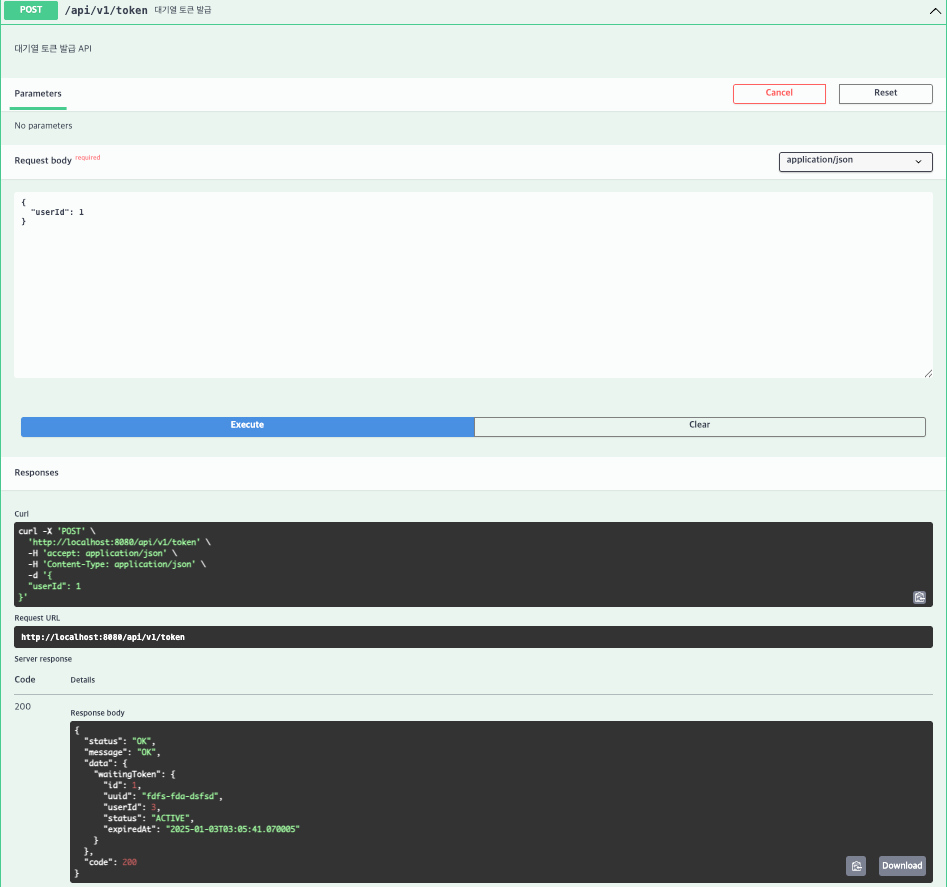
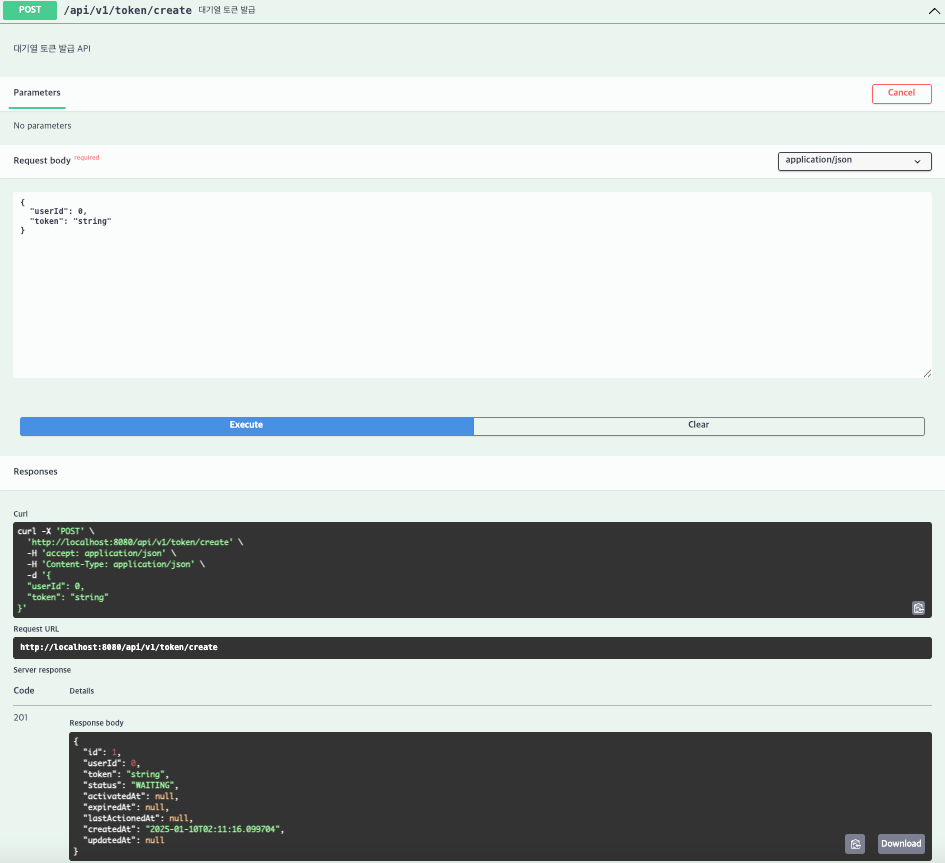
chore : swagger 관련 파일 추가

diff --git a/src/main/java/com/server/concert_reservation/api/concert/presentation/ConcertController.java b/src/main/java/com/server/concert_reservation/api/concert/presentation/ConcertController.java
@@ -1,0 +1,60 @@
+package com.server.concert_reservation.api.concert.presentation;
+
+import com.server.concert_reservation.api.concert.application.GetConcertUseCase;
+import com.server.concert_reservation.api.concert.application.ReservationUseCase;
+import com.server.concert_reservation.api.concert.domain.dto.command.ReservationCommand;
+import com.server.concert_reservation.api.concert.presentation.dto.ConcertHttp;
+import com.server.concert_reservation.common.time.TimeManager;
+import io.swagger.v3.oas.annotations.Operation;
+import io.swagger.v3.oas.annotations.Parameter;
+import io.swagger.v3.oas.annotations.media.Content;
+import io.swagger.v3.oas.annotations.responses.ApiResponse;
+import io.swagger.v3.oas.annotations.responses.ApiResponses;
+import io.swagger.v3.oas.annotations.tags.Tag;
+import lombok.RequiredArgsConstructor;
+import org.springframework.http.ResponseEntity;
+import org.springframework.web.bind.annotation.*;
+
+import static org.springframework.http.HttpStatus.CREATED;
+
+@RestController
+@Tag(name = "Concert", description = "Response Concert API")
+@RequiredArgsConstructor
+@RequestMapping("/api/v1")
+public class ConcertController {
+
+    private final GetConcertUseCase getConcertUseCase;
+    private final ReservationUseCase reservationUseCase;
+    private final TimeManager timeManager;
+
+    @GetMapping("/{concertId}/available-schedules")
+    @Operation(summary = "예약 가능 콘서트 날짜 조회", description = "예약 가능한 콘서트 날짜 조회 API")
+    @ApiResponses(value = {
+            @ApiResponse(responseCode = "200", description = "예약 가능 콘서트 날짜 조회 성공.", content = @Content(mediaType = "application/json")),
+    })
+    @Parameter(name = "concertId", description = "콘서트 Id")
+    public ResponseEntity<ConcertHttp.ConcertScheduleResponse> getAvailableSchedules(@PathVariable Long concertId, @RequestHeader("X-Waiting-Token") String token) {
+        return ResponseEntity.ok(ConcertHttp.ConcertScheduleResponse.of(getConcertUseCase.getAvailableConcertSchedules(concertId, timeManager.now())));
+    }
+
+    @GetMapping("/concert-schedules/{concertScheduleId}/available-seats")
+    @Operation(summary = "예약 가능 좌석 조회", description = "예약 가능한 좌석 조회 API")
+    @ApiResponses(value = {
+            @ApiResponse(responseCode = "200", description = "예약 가능 좌석 성공.", content = @Content(mediaType = "application/json")),
+    })
+    @Parameter(name = "concertScheduleId", description = "콘서트 스케쥴 Id")
+    public ResponseEntity<ConcertHttp.ConcertSeatsResponse> getAvailableSeats(@PathVariable Long concertScheduleId, @RequestHeader("X-Waiting-Token") String token) {
+        return ResponseEntity.ok(ConcertHttp.ConcertSeatsResponse.of(getConcertUseCase.getAvailableConcertSeats(concertScheduleId)));
+    }
+
+    @PostMapping("/concert-seats/reservation")
+    @Operation(summary = "좌석 예약", description = "좌석 예약 요청 API")
+    @ApiResponses(value = {
+            @ApiResponse(responseCode = "201", description = "좌석 예약 성공.", content = @Content(mediaType = "application/json")),
+    })
+    public ResponseEntity<ConcertHttp.ReservationResponse> reservationSeats(@RequestBody ConcertHttp.ConcertReservationRequest request, @RequestHeader("X-Waiting-Token") String token) {
+        return ResponseEntity
+                .status(CREATED)
+                .body(ConcertHttp.ReservationResponse.of(reservationUseCase.temporaryReserveConcert(ReservationCommand.of(request))));
+    }
+}

diff --git a/src/main/java/com/server/concert_reservation/api/token/presentation/TokenController.java b/src/main/java/com/server/concert_reservation/api/token/presentation/TokenController.java
@@ -1,0 +1,48 @@
+package com.server.concert_reservation.api.token.presentation;
+
+import com.server.concert_reservation.api.token.application.TokenUseCase;
+import com.server.concert_reservation.api.token.domain.dto.command.TokenCommand;
+import com.server.concert_reservation.api.token.presentation.dto.TokenHttp;
+import io.swagger.v3.oas.annotations.Operation;
+import io.swagger.v3.oas.annotations.media.Content;
+import io.swagger.v3.oas.annotations.responses.ApiResponse;
+import io.swagger.v3.oas.annotations.responses.ApiResponses;
+import io.swagger.v3.oas.annotations.tags.Tag;
+import lombok.RequiredArgsConstructor;
+import org.springframework.http.ResponseEntity;
+import org.springframework.web.bind.annotation.*;
+
+
+import static org.springframework.http.HttpStatus.CREATED;
+
+@RestController
+@Tag(name = "Token", description = "Response Token API")
+@RequiredArgsConstructor
+@RequestMapping("/api/v1")
+public class TokenController {
+
+    private final TokenUseCase tokenUseCase;
+
+    @PostMapping("/token/create")
+    @Operation(summary = "대기열 토큰 발급", description = "대기열 토큰 발급 API")
+    @ApiResponses(value = {
+            @ApiResponse(responseCode = "201", description = "대기열 토큰 발급 성공.", content = @Content(mediaType = "application/json")),
+    })
+    public ResponseEntity<TokenHttp.TokenResponse> createToken(@RequestBody TokenHttp.TokenRequest request) {
+        return ResponseEntity
+                .status(CREATED)
+                .body(TokenHttp.TokenResponse.of(tokenUseCase.createToken(TokenCommand.of(request))));
+    }
+
+    @GetMapping("/token")
+    @Operation(summary = "대기열 토큰 상태 조회", description = "대기열 토큰 상태 조회 API")
+    @ApiResponses(value = {
+            @ApiResponse(responseCode = "200", description = "대기열 토큰 상태 조회 성공.", content = @Content(mediaType = "application/json")),
+    })
+    public ResponseEntity<TokenHttp.TokenResponse> getTokenStatus(
+            @RequestHeader("X-Waiting-Token") String token,
+            @RequestHeader("USER-ID") Long userId
+            ) {
+        return ResponseEntity.ok(TokenHttp.TokenResponse.of(tokenUseCase.getWaitingToken(token, userId)));
+    }
+}

diff --git a/src/main/java/com/server/concert_reservation/api/user/presentation/UserController.java b/src/main/java/com/server/concert_reservation/api/user/presentation/UserController.java
@@ -1,0 +1,47 @@
+package com.server.concert_reservation.api.user.presentation;
+
+import com.server.concert_reservation.api.user.domain.dto.command.UserCommand;
+import com.server.concert_reservation.api.user.domain.service.UserCommandService;
+import com.server.concert_reservation.api.user.domain.service.UserQueryService;
+import com.server.concert_reservation.api.user.presentation.dto.UserHttp;
+import io.swagger.v3.oas.annotations.Operation;
+import io.swagger.v3.oas.annotations.Parameter;
+import io.swagger.v3.oas.annotations.media.Content;
+import io.swagger.v3.oas.annotations.responses.ApiResponse;
+import io.swagger.v3.oas.annotations.responses.ApiResponses;
+import io.swagger.v3.oas.annotations.tags.Tag;
+import lombok.RequiredArgsConstructor;
+import org.springframework.http.ResponseEntity;
+import org.springframework.web.bind.annotation.*;
+
+@RestController
+@Tag(name = "User", description = "Response User API")
+@RequiredArgsConstructor
+@RequestMapping("/api/v1")
+public class UserController {
+
+    private final UserQueryService userQueryService;
+    private final UserCommandService userCommandService;
+
+    @GetMapping("/users/{userId}/wallet")
+    @Operation(summary = "잔액 조회", description = "잔액 조회 API")
+    @ApiResponses(value = {
+            @ApiResponse(responseCode = "200", description = "요청 성공.", content = @Content(mediaType = "application/json")),
+    })
+    @Parameter(name = "userId", description = "유저 Id")
+    public ResponseEntity<UserHttp.UserWalletResponse> getUserWallet(@PathVariable Long userId) {
+        return ResponseEntity.ok(UserHttp.UserWalletResponse.of(userQueryService.getWallet(userId)));
+    }
+
+    @PatchMapping("/users/charge/point")
+    @Operation(summary = "포인트 충전", description = "포인트 충전 API")
+    @ApiResponses(value = {
+            @ApiResponse(responseCode = "200", description = "요청 성공.", content = @Content(mediaType = "application/json")),
+    })
+    public ResponseEntity<UserHttp.UserWalletResponse> chargePoint(@RequestBody UserHttp.UserWalletRequest request) {
+        return ResponseEntity.ok(UserHttp.UserWalletResponse.of(userCommandService.chargePoint(UserCommand.of(request))));
+    }
+
+}
+
+

diff --git a/src/main/java/com/server/concert_reservation/api/payment/presentation/PaymentController.java b/src/main/java/com/server/concert_reservation/api/payment/presentation/PaymentController.java
@@ -7,6 +7,7 @@ import io.swagger.v3.oas.annotations.Operation;
 import io.swagger.v3.oas.annotations.media.Content;
 import io.swagger.v3.oas.annotations.responses.ApiResponse;
 import io.swagger.v3.oas.annotations.responses.ApiResponses;
+import io.swagger.v3.oas.annotations.tags.Tag;
 import lombok.RequiredArgsConstructor;
 import org.springframework.http.ResponseEntity;
 import org.springframework.web.bind.annotation.*;
@@ -14,6 +15,7 @@ import org.springframework.web.bind.annotation.*;
 
 @RestController
 @RequiredArgsConstructor
+@Tag(name = "Payment", description = "Response Payment API")
 @RequestMapping("/api/v1")
 public class PaymentController {
 

diff --git a/docs/API_SPEC_SWAGGER.md b/docs/API_SPEC_SWAGGER.md
@@ -2,6 +2,8 @@
 
 URL : http://localhost:8080/swagger-ui/index.html/
 
+![img.png](images/swagger.png)
+
 ### 대기열 토큰 발급
 
 ![img_2.png](images/img_2.png)
@@ -9,10 +11,6 @@ URL : http://localhost:8080/swagger-ui/index.html/
 ### 대기열 토큰 상태 조회
 
 ![img_1.png](images/img_1.png)
-
-### 콘서트 목록 조회
-
-![img_3.png](images/img_3.png)
 
 ### 콘서트 예약 가능 날짜 조회
 
